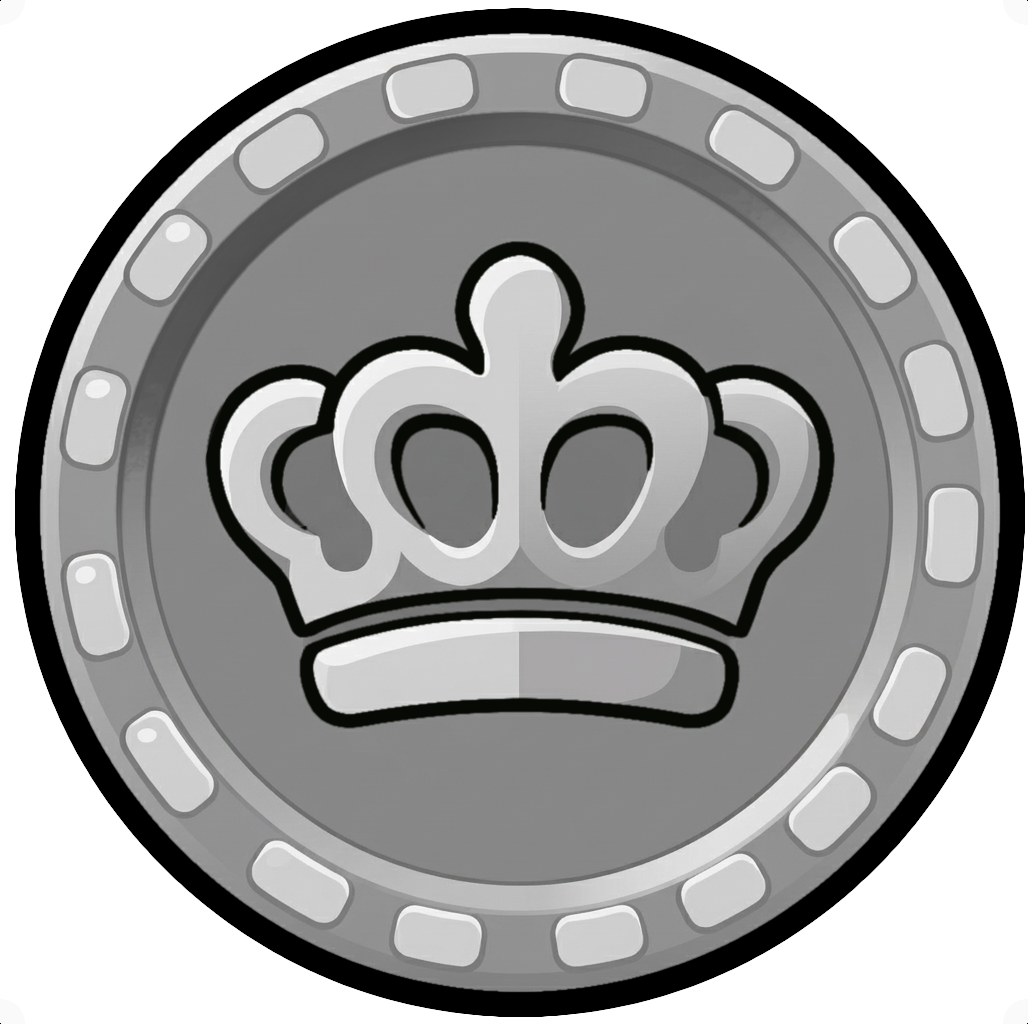
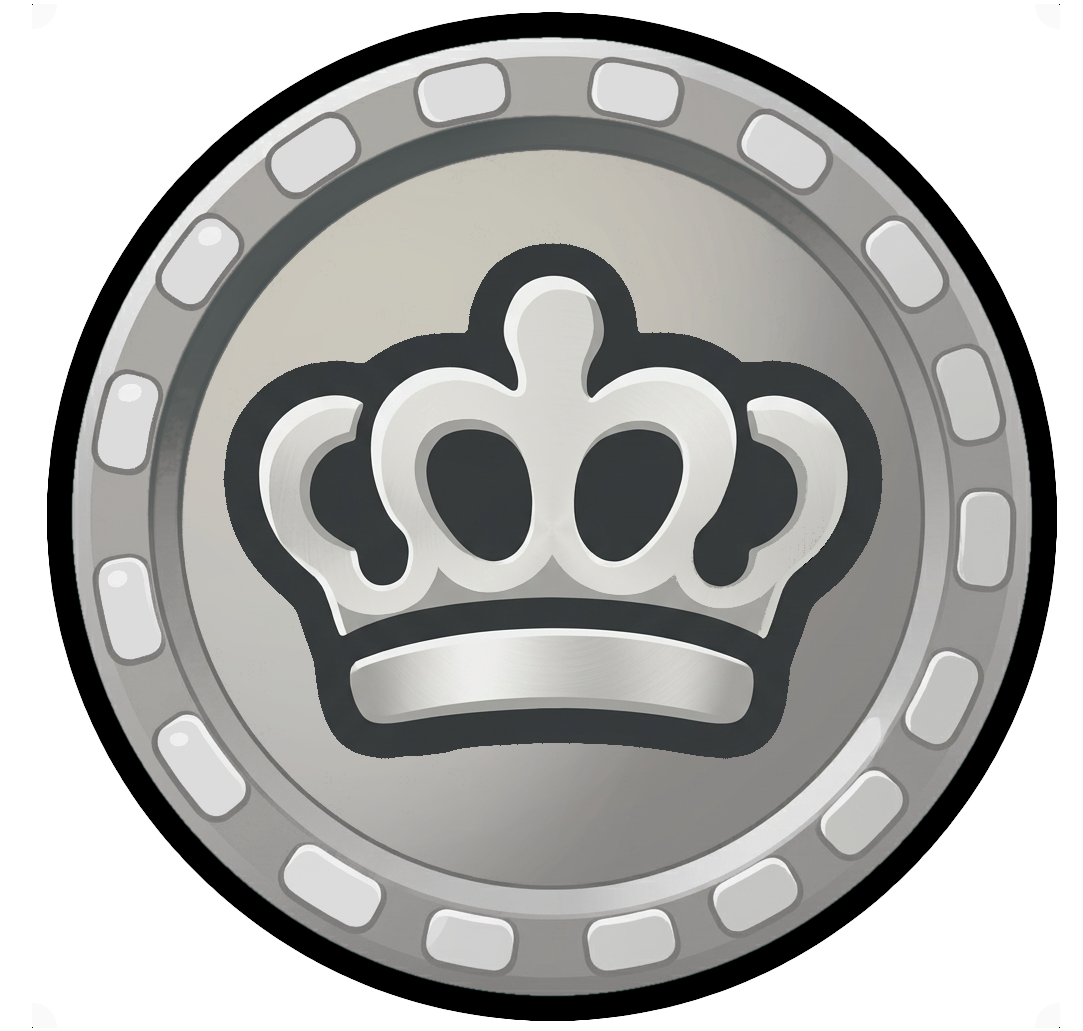
Fix gold coin css

diff --git a/deckhand2/design.js b/deckhand2/design.js
@@ -22,10 +22,10 @@ var get_res = (r) => {
         return res("parrot-2", "parrot")
     }
     if (r == "c") {
-        return res("coin-2")
+        return res("coin-3", "coin")
     }
     if (r == "cs") {
-        return res("silver-2")
+        return res("silver-coin-2", "silver-coin")
     }
     if (r == "g") {
         return res("gun-2", "gun")

diff --git a/deckhand2/2.css b/deckhand2/2.css
@@ -236,14 +236,6 @@ img {
     width: 34px;
 }
 
-.coin {
-    width: 23px;
-    display: inline-flex;
-    margin-right: 1px;
-    margin-bottom: -6px;
-    margin-left: 2px; 
-}
-
 .type {
     background-color: #ffc4739e;
     background-color: #f4c886b3;
